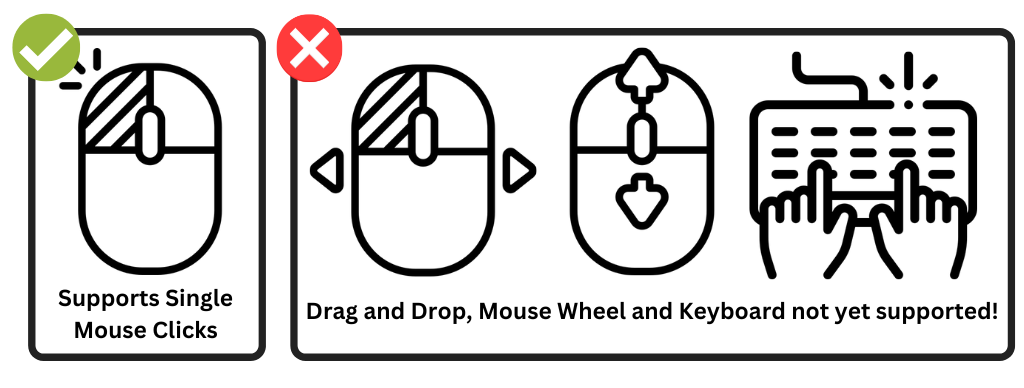
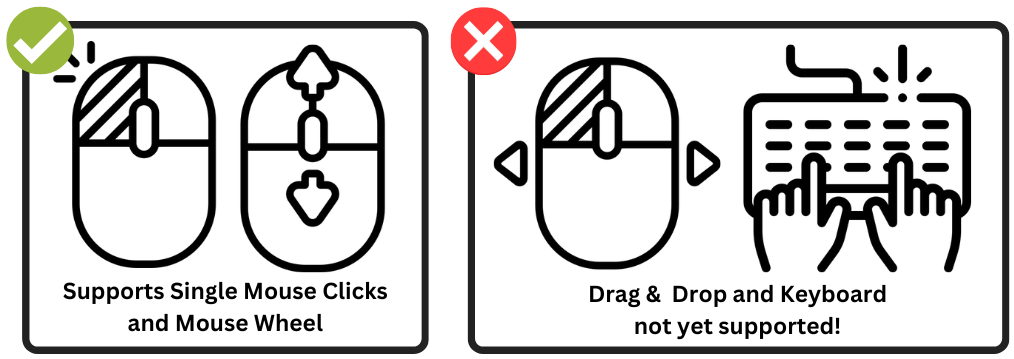
🥳 released v0.2.0

diff --git a/README.md b/README.md
@@ -4,13 +4,13 @@ This utility expansion for Microsoft Flight Simulator brings all your favorite d
 
 FSdesktop can
 
-- enable you to watch your favorite streamers,
-- help you to follow along YouTube tutorials,
-- show you streamers out there your Twitch or YouTube chat
-- make those long distance flights a bit more entertaining by letting you stay in touch with your Discord communities
-- display your vPilot client
-- show you your LittleNavMap flight plans
-- ... and much, much more
+-   enable you to watch your favorite streamers,
+-   help you to follow along YouTube tutorials,
+-   show you streamers out there your Twitch or YouTube chat
+-   make those long distance flights a bit more entertaining by letting you stay in touch with your Discord communities
+-   display your vPilot client
+-   show you your LittleNavMap flight plans
+-   ... and much, much more
 
 right inside your Flight Simulator cockpit! This is is especially helpful for those of us who like to fly in VR (and thus not being able to look at a second screen).
 
@@ -36,14 +36,14 @@ If you like it, please let me know and share it with other VR pilots :-) Also, c
 4. [Support the Development and Go PRO](#support-the-development-and-go-pro)
 5. [Getting Support](#getting-support)
 6. [Features: Free vs. Pro](#features-free-vs-pro)
-6. [Known Limitations and Roadmap](#known-limitations-and-roadmap)
-7. [Components](#components)
-8. [Installation](#installation)
-9. [Usage](#usage)
-10. [Troubleshooting](#troubleshooting)
-11. [Attribution](#attribution)
-12. [Releases and Downloads](#releases-and-downloads)
-13. [Support Your Modders](#support-your-modders)
+7. [Known Limitations and Roadmap](#known-limitations-and-roadmap)
+8. [Components](#components)
+9. [Installation](#installation)
+10. [Usage](#usage)
+11. [Troubleshooting](#troubleshooting)
+12. [Attribution](#attribution)
+13. [Releases and Downloads](#releases-and-downloads)
+14. [Support Your Modders](#support-your-modders)
 
 ---
 
@@ -53,23 +53,23 @@ If you like it, please let me know and share it with other VR pilots :-) Also, c
 
 ![FSdesktop](screenshots/fsdesktop-1.png)
 
-*FSdesktop*
+_FSdesktop_
 
 ![vPilot Inside FSdesktop](screenshots/fsdesktop-vpilot.png)
 
-*vPilot in FSdesktop*
+_vPilot in FSdesktop_
 
 ![Google Chrome Inside FSdesktop](screenshots/fsdesktop-chrome.png)
 
-*Google Chrome in FSdesktop*
+_Google Chrome in FSdesktop_
 
 ![Twitch Chat Inside FSdesktop](screenshots/fsdesktop-twitch.png)
 
-*Twitch Chat in FSdesktop*
+_Twitch Chat in FSdesktop_
 
 ![Toolbar Icon](screenshots/fsdesktop-toolbar.png)
 
-*Toolbar Icon*
+_Toolbar Icon_
 
 ---
 
@@ -225,7 +225,7 @@ YEAH! You rock!!!</td>
 <tbody>
 <tr>
 <td>Click recognition and forwarding should be more reliable</td>
-<td>💡, 🔥</td>
+<td>💡, 🔥, it appears that this mostly impacts Windows 11 users, I am currently inverstigating the issue</td>
 </tr>
 <tr>
 <td>Currently only one window can be streamed at any given time; must go back to to window selector tab to switch</td>
@@ -236,15 +236,11 @@ YEAH! You rock!!!</td>
 <td>💡, 🔥</td>
 </tr>
 <tr>
-<td>Missing mouse wheel support</td>
-<td>💡, 🔥</td>
-</tr>
-<tr>
 <td>Missing drag and drop support</td>
 <td>💡, 🔥</td>
 </tr>
 <tr>
-<td>Desktop DPI must be set to 100%</td>
+<td>Desktop DPI should be set to 100%</td>
 <td>⏳</td>
 </tr>
 <tr>
@@ -264,7 +260,7 @@ YEAH! You rock!!!</td>
 
 ![Supported Input Methods](screenshots/fsdesktop-supported-input.png)
 
-*Supported Input Methods*
+_Supported Input Methods_
 
 ---
 
@@ -304,7 +300,7 @@ Select a directory where you want to install the FSdesktop main application. The
 
 ![Select a Server Directory](screenshots/fsdesktop-windows-installer-1.png)
 
-*Select a Server Directory*
+_Select a Server Directory_
 
 <div style="page-break-after: always;"></div>
 
@@ -316,7 +312,7 @@ IMPORTANT: Just pick the community folder! Do not add any subfolders. Otherwise 
 
 ![Locate your MSFS Community Folder](screenshots/fsdesktop-windows-installer-2.png)
 
-*Locate your MSFS Community Folder*
+_Locate your MSFS Community Folder_
 
 <div style="page-break-after: always;"></div>
 
@@ -326,13 +322,13 @@ You should now see a summary of what the installer will copy to what folders. Cl
 
 ![FSdesktop Start Menu Items](screenshots/fsdesktop-windows-installer-3.png)
 
-*FSdesktop Start Menu Items*
+_FSdesktop Start Menu Items_
 
 ### Upgrading to a New Version
 
 When upgrading to a new version, you should unistall the old one. You are free to try to simply "update" what you already have, but I don't recommend it. Old files may interfere with new ones and break the mod. Therefore, in case you encounter bugs after upgrading, properly uninstall FSdesktop and go for a fresh install!
 
-Make sure to backup your license information, though, just to be save :-) 
+Make sure to backup your license information, though, just to be save :-)
 
 <div style="page-break-after: always;"></div>
 
@@ -346,7 +342,7 @@ Place the contents of `application` folder somewhere convenient (like `C:\Tools\
 
 ![Main Application Installation](screenshots/fsdesktop-install-application-1.png)
 
-*Main Application Installation*
+_Main Application Installation_
 
 <div style="page-break-after: always;"></div>
 
@@ -356,13 +352,13 @@ Place the folder `christian1984-ingamepanel-fsdesktop` in your MSFS community fo
 
 ![Panel Installation](screenshots/fsdesktop-install-panel-1.png)
 
-*Panel Installation*
+_Panel Installation_
 
 When finished, your Community folder should look like this (though there may be more than one extension installed, obviously).
 
 ![Panel Installation - Done](screenshots/fsdesktop-install-panel-2.png)
 
-*Panel Installation - Done*
+_Panel Installation - Done_
 
 ### Manually Upgrading to a New Version
 
@@ -381,33 +377,36 @@ In order to launch FSdesktop, you need to do two things:
 
 ## Start FSdesktop
 
-- Step 1: Run `fsdesktop.exe` by clicking either the appropriate desktop icon or selecting it from the start menu. This will bring up the FSdesktop core application's desktop window. FSdesktop will now wait for Microsoft Flight Simulator and connect to it.
-- Step 2: Start Microsoft Flight Simulator. You can do this by either clicking the appropriate icon on your desktop.
-- Step 3: Open up the ingame panel once inside the sim (like you would do with other ingame panels like the ATC or weather panel etc.)
-- Step 4: Place the FSdesktop Panel conveniently in your VR space
-- Step 5: Click one of the desktop windows that FSdesktop has found to see them in VR.
+-   Step 1: Run `fsdesktop.exe` by clicking either the appropriate desktop icon or selecting it from the start menu. This will bring up the FSdesktop core application's desktop window. FSdesktop will now wait for Microsoft Flight Simulator and connect to it.
+-   Step 2: Start Microsoft Flight Simulator. You can do this by either clicking the appropriate icon on your desktop.
+-   Step 3: Open up the ingame panel once inside the sim (like you would do with other ingame panels like the ATC or weather panel etc.)
+    > When you open the FSdesktop ingame panel for the very first time, you will be greated by an interactive tour that will guide you through the basics of how the application works. Please, please, pretty please: Take the time to follow along and do not skip the tour. It has some very important information in it!
+-   Step 4: Place the FSdesktop Panel conveniently in your VR space
+-   Step 5: Click one of the desktop windows that FSdesktop has found to see them in VR.
 
 > Please Note:
-> 
+>
 > To get the best out of FSdesktop, please make sure that you run Microsoft Flight Simulator windowed, NOT in full screen.
-> 
+>
 > ![FSdesktop - Run Flight Simulator in Fullscreen Mode](screenshots/fsdesktop-windowed.png)
-> 
-> *Run Flight Simulator in Fullscreen Mode*
-> 
+>
+> _Run Flight Simulator in Fullscreen Mode_
+>
 > Also, you want to make sure that the window you are about to stream into your VR space is at least party visible.
-> 
+>
 > ![FSdesktop - The Application Should be Partly Visible](screenshots/fsdesktop-partly-visible.png)
-> 
-> *The Application Should be Partly Visible*
+>
+> _The Application Should be Partly Visible_
 
 ## Activate Your License
 
-If you have purchased a license for FSdesktop, you can activate it by simply entering your email address (the one you used to order) and your serial number in the appropriate fields of the FSdesktop application window.
+If you have purchased a license for FSdesktop, you can activate it by simply entering your email address (the one you used to order) and your serial number in the appropriate fields of the FSdesktop application window. Then click "Checkout FSdesktop License".
+
+If the checkout was successful, your credentials will be stored and, going forward, the license will be checked out automatically when FSdesktop launches.
 
 ![FSdesktop - How to Activate Your License](screenshots/fsdesktop-activate-license.png)
 
-*How to Activate Your License*
+_How to Activate Your License_
 
 ## How To Bring Up The FSdesktop Panel in VR
 
@@ -415,7 +414,7 @@ In order to open up the actual FSdesktop panel inside MSFS, first enter VR mode.
 
 ![FSdesktop - How to open the ingame panel](screenshots/fsdesktop-usage-open-panel.png)
 
-*How to open the ingame panel (old icon)*
+_How to open the ingame panel (old icon)_
 
 ---
 
@@ -425,26 +424,38 @@ In order to open up the actual FSdesktop panel inside MSFS, first enter VR mode.
 
 The FSdesktop server can be started with several commandline arguments to further customize its behaviour. In general, all you need to do is add them behind your "fsdesktop.exe" shortcut.
 
-- `--log [level]`: Set log level and enable logging to file. `[level]` can be any of `debug | info | warn | error | off` (defaults to `off`). Use together with flag `--verbose` to also log to `stdout`. This will override/adjust the settings previously set through the GUI. Also, if you encounter issues during FSdesktop startup, running `fsdesktop.exe --log debug` is the way to go!
-- `--resettour`: Reset the tour(s).
+-   `--log [level]`: Set log level and enable logging to file. `[level]` can be any of `debug | info | warn | error | off` (defaults to `off`). Use together with flag `--verbose` to also log to `stdout`. This will override/adjust the settings previously set through the GUI. Also, if you encounter issues during FSdesktop startup, running `fsdesktop.exe --log debug` is the way to go!
+-   `--resettour`: Reset the tour(s).
 
 ![Log Level Shortcut](screenshots/fsdesktop-cli.png)
 
-*Log Level Shortcut*
+_Log Level Shortcut_
 
 <div style="page-break-after: always;"></div>
 
 # Troubleshooting
 
+## "I can stream my appication with FSdeskto, but I cannot interact with it. What is wrong?"
+
+> Please make sure that your setup complies with the following prerequisites:
+>
+> 1. Make sure MSFS runs in **windowed** mode
+> 2. Make sure that the window you are going to use is at **least partly visible**
+> 3. Ensure that your desktop runs at **100% DPI**
+>
+> Finally, it appears that Windows 11 users experience issues with controlling there applications when in VR. This issue is under investigation.
+
 ## "I cannot see the FSdesktop ingame panel inside MSFS. What is wrong?"
 
 > There are typically two reasons why this can happen:
+>
 > 1. First, make sure that you have opened up MSFS's ingame toolbar. In 2D mode, that happens automatically when you hover your mouse over the chevron on the very top of the window. In VR mode you need to press the `[TAB]` key to bring up this toolbar! Now, double-check whether the FSdesktop icon appears on that toolbar or not. If it does, then click it. Issue solved :-)
 > 2. Second, if the icon does not appear, it is very likely that the ingame panel was installed to the wrong directory. To identify the proper community folder please read the next section and then come back... Got your community folder location? Great! Now uninstall FSdesktop and run the installer again. When prompted to enter your community folder location, enter the community folder path that you have just identified. Restart MSFS and the panel should appear.
 
 ## "I cannot find my community folder. Help!!!"
 
 > Here's how to localize your active community folder with 100% certainty:
+>
 > 1. Start MSFS and wait for the main menu to be loaded.
 > 2. Now click Options > General
 > 3. Open the "Developers"-settings-page, which is located at the bottom of the list on the left
@@ -455,10 +466,14 @@ The FSdesktop server can be started with several commandline arguments to furthe
 ## "Everything inside the FSdesktop panel appears stretched!"
 
 > Please make sure that the main MSFS window has roughly a 16:9 aspect ratio as shown below:
-> 
+>
 > ![FSdesktop - Flight Simulator Window Aspect Ratio](screenshots/fsdesktop-aspect-ratio.png)
-> 
-> *Flight Simulator Window Aspect Ratio*
+>
+> _Flight Simulator Window Aspect Ratio_
+
+## "I have skipped the tour and now I would like to watch it again. How can I accomplish that?"
+
+> Easy. Open the FSdesktop main application and navigate to the settings tab. From here, click the "Restart Tour" button. Then close and reopen the FSdesktop ingame panel. The tour should now start.
 
 ---
 
@@ -468,11 +483,11 @@ This project was inspired by [bymaximus/msfs2020-toolbar-window-template](https:
 
 ### Icons
 
-- Icons provided by [FontAwesome](https://fontawesome.com/license/free).
-- Tour icons provided by:
-  - [Left click icons created by Smashicons - Flaticon](https://www.flaticon.com/free-icons/left-click)
-  - [Scroll icons created by Smashicons - Flaticon](https://www.flaticon.com/free-icons/scroll)
-  - [Typing icons created by Freepik - Flaticon](https://www.flaticon.com/free-icons/typing)
+-   Icons provided by [FontAwesome](https://fontawesome.com/license/free).
+-   Tour icons provided by:
+    -   [Left click icons created by Smashicons - Flaticon](https://www.flaticon.com/free-icons/left-click)
+    -   [Scroll icons created by Smashicons - Flaticon](https://www.flaticon.com/free-icons/scroll)
+    -   [Typing icons created by Freepik - Flaticon](https://www.flaticon.com/free-icons/typing)
 
 ---
 

diff --git a/CHANGELOG.md b/CHANGELOG.md
@@ -1,24 +1,45 @@
+# v0.2.0
+
+## MAJOR
+
+-   added mouse wheel support
+-   added a switch to select between a white and a black background for the streamed window
+-   improved the layout of the window picker for the default size of FSdesktop's ingame panel in VR
+
+## MINOR
+
+-   added a settings page to the main application
+-   added a dropdown menu to select the active log level and also access the log folder with a click of a button
+-   added a button to restart the tour
+-   migrated the entire server GUI from vanilla javascript to react
+
+---
+
 # v0.1.0
 
 ## MAJOR
 
-- improved the rendering canvas so that it will always fit the available screen real estate "from inside", i.e. users won't see any vertical overflow anymore
-- store resolution and refresh rate settings to "survive" across sessions
-- hide resolution and refresh rate selection buttons by default, reveal only on hover
-- added an update checker which checks for available updates for FSdesktop
-- hide serial number once submitted to prevent unintentional leaking by content creators or people seeking advice etc.
+-   improved the rendering canvas so that it will always fit the available screen real estate "from inside", i.e. users won't see any vertical overflow anymore
+-   store resolution and refresh rate settings to "survive" across sessions
+-   hide resolution and refresh rate selection buttons by default, reveal only on hover
+-   added an update checker which checks for available updates for FSdesktop
+-   hide serial number once submitted to prevent unintentional leaking by content creators or people seeking advice etc.
 
 ## MINOR
 
-- make FSdesktop trial period "version-based", i.e. the trial period will reset for every new version
-- show version number in title bar
-- remove default application menu bar
-- changed default server port to less commenly used port 9670
-- catch any unexpected errors on the process level and show a user-friendly dialog with a hint to restart FSdesktop and on how to get support
+-   make FSdesktop trial period "version-based", i.e. the trial period will reset for every new version
+-   show version number in title bar
+-   remove default application menu bar
+-   changed default server port to less commenly used port 9670
+-   catch any unexpected errors on the process level and show a user-friendly dialog with a hint to restart FSdesktop and on how to get support
+
+---
 
 # v0.0.2
 
-- HOTFIX: updated installer GUID to allow for a separate installation when FSKneeboard is already installed
+-   HOTFIX: updated installer GUID to allow for a separate installation when FSKneeboard is already installed
+
+---
 
 # v0.0.1
 
